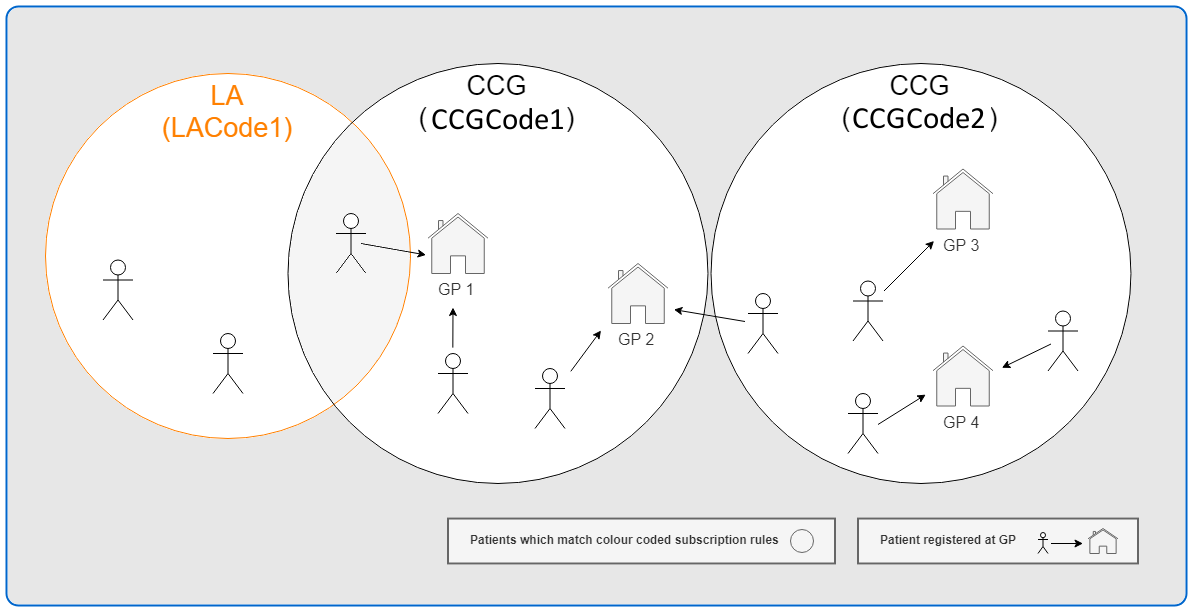
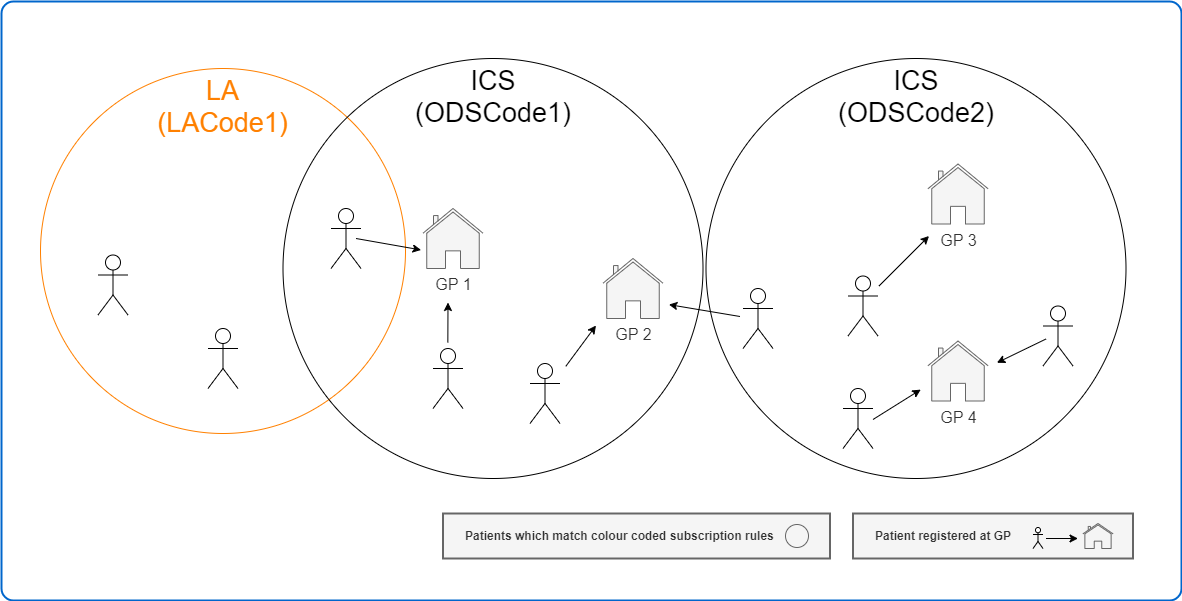
Applied further updates, and reverted changes to subscription rule type names.

diff --git a/pages/subscriptions/explore_create_subscription.md b/pages/subscriptions/explore_create_subscription.md
@@ -66,16 +66,16 @@ The criteria element of the Subscription will use the FHIR search string format 
 {% include warning.html content="Generic subscriptions are stored against a key made up of the `\"Event type\"`, `\"subscriptionRuleType\"`, `\"Organisation Identifier\"`, `\"Mailbox ID\"` and `\"Service Provider ID\"`. As a result if you create a generic subscription with the same set of components as an existing subscription, the original one will be overwritten by the new subscription." %}
 
 
-| Component | Explicit Subscription Cardinality | Generic Subscription Cardinality | Description                                                                                                                                                                                                                                                                                                                                                                                                                                                                                                                                                                                                                                                                                                                                                                                                                                                                                                                                                                                                                                                                                                                                                                                                                                                                                                                                                                                                                                               |
-| ------------------------------- | --- | --- |-----------------------------------------------------------------------------------------------------------------------------------------------------------------------------------------------------------------------------------------------------------------------------------------------------------------------------------------------------------------------------------------------------------------------------------------------------------------------------------------------------------------------------------------------------------------------------------------------------------------------------------------------------------------------------------------------------------------------------------------------------------------------------------------------------------------------------------------------------------------------------------------------------------------------------------------------------------------------------------------------------------------------------------------------------------------------------------------------------------------------------------------------------------------------------------------------------------------------------------------------------------------------------------------------------------------------------------------------------------------------------------------------------------------------------------------------------------|
-| /Bundle?type=message            | 1..1 | 1..1 | This identifies that we are interested in events (which are sent as Bundles in FHIR), of type "message"                                                                                                                                                                                                                                                                                                                                                                                                                                                                                                                                                                                                                                                                                                                                                                                                                                                                                                                                                                                                                                                                                                                                                                                                                                                                                                                                                   |
-| serviceType=[CODE]     | 0..1 | 0..1 | This element identifies the service type making the subscription. Current accepted values are:<br/><br/>**GP** - GP Practice related services<br/>**CHO** - Child Health Organisation related services<br/>**UHV** - Health Visitor related services<br/>**EPCHR** - Electronic Personal Child Health Record services                                                                                                                                                                                                                                                                                                                                                                                                                                                                                                                                                                                                                                                                                                                                                                                                                                                                                                                                                                                                                                                                                                                                     |
-| Patient.identifier=[IDENTIFIER] | 1..1 | 0..0 | This is used for Explicit Subscriptions for an individual patient. The [IDENTIFIER] is the NHS Number for the patient. <br/><br/>For example: "```&amp;Patient.identifier=http://fhir.nhs.net/Id/nhs-number                                                                                                                                                                                                                                                                                                                                                                                                                                                                                                                                                                                                                                                                                                                                                                                                                                                                                                                                                                                                                                                                                                                                                                                                                                               |[NHS Number]```" |
-| MessageHeader.event=[CODE]      | 1..* | 1..1 | This is the type of event to subscribe to (see the [Event Types](https://fhir.nhs.uk/STU3/CodeSystem/EventType-1)). <br/><br/>For example: <br/> "```&amp;MessageHeader.event=pds-birth-notification-1&amp;MessageHeader.event=vaccinations-1&amp;MessageHeader.event=pds-change-of-address-1```" <br/><br/> is an expression to specify events where the MessageHeader.event is of type "pds-birth-notification-1", "vaccinations-1" or "pds-change-of-address-1"                                                                                                                                                                                                                                                                                                                                                                                                                                                                                                                                                                                                                                                                                                                                                                                                                                                                                                                                                                                        |
-| Patient.age=[AGE]               | 0..2 |  0..2 | This is a filter to only match events where the age of the patient (in years) meets the criteria supplied. <br/><br/>Examples:<br/> - "```&amp;Patient.age=lt14```"<br/> - "```&amp;Patient.age=gt60```"<br/> - "```&amp;Patient.age=gt5&amp;Patient.age=lt19```" <br/><br/>For more detail see the Search Parameter [EMS Patient Age](https://fhir.nhs.uk/STU3/SearchParameter/EMS-PatientAge-1)                                                                                                                                                                                                                                                                                                                                                                                                                                                                                                                                                                                                                                                                                                                                                                                                                                                                                                                                                                                                                                                         |
-| subscriptionRuleType=[CODE] | 0..0 | 1..1 | This identifies the type of matching the NEMS will do between the patient demographics and the organisation code specified in the "Organization.identifier" criteria component. Current accepted values are:<br/><br/>**GP_GP_GP** - This will be a match if the patients registered GP matches the GP Practice code within the "Organization.identifier" criteria component.<br/><br/>**UHV_POSTCODE_LACODE** - This will be a match if the Local Authority Code responsible for the geographical location of the patients post code matches the code within the "Organization.identifier" criteria component.<br/><br/>**CHO_GP_ICS** - This will be a match if the ICS Code responsible for the geographical location of the patients registered GP matches the code within the "Organization.identifier" criteria component.<br/><br/>**CHO_POSTCODE_ICS** - This will be a match if the ICS Code responsible for the geographical location of the patients postcode matches the code within the "Organization.identifier" criteria component.<br/><br/>**COUNTRYCODE** - National subscription, subscription criteria is a match for any patients in the country specified in the `Organizaiton.identifier` criteria element.<br/>Supported values:<br/>- `E92000001 = England`<br/>- `W92000004 = Wales`<br/>- `S92000003 = Scotland`<br/>- `N92000002 = Northern Ireland`<br/>- `L93000001 = Channel Islands`<br/>- `M83000003 = Isle of Man`<br/> |
-| Organization.identifier=[CODE]  | 0..0 | 0..1 | This element is required as part of the generic subscription to specify the organisation code which the NEMS will match to, based on the rule specified within the subscriptionRuleType criteria component.                                                                                                                                                                                                                                                                                                                                                                                                                                                                                                                                                                                                                                                                                                                                                                                                                                                                                                                                                                                                                                                                                                                                                                                                                                               |
-| tag=[tag_value]  | 0..1 | 0..1 | The optional `tag` criteria element allows the subscriber to include a tag for the subscription that will be sent with the event message, when delivered through MESH, as outlined on the [Event Receiver](receiver_requirements.html) page.<br/><br/>The `tag` element value must only include<br/> - letters (`[a-z][A-Z]`)<br/> - numbers (`[0-9]`)<br/> - hyphens (`-`)<br/> - underscores (`_`)<br/> - pipes (`                                                                                                                                                                                                                                                                                                                                                                                                                                                                                                                                                                                                                                                                                                                                                                                                                                                                                                                                                                                                                                      |`)<br/> - commas (`,`)<br/><br/>The `tag` value must contain a maximum of 100 characters. |
+| Component | Explicit Subscription Cardinality | Generic Subscription Cardinality | Description                                                                                                                                                                                                                                                                                                                                                                                                                                                                                                                                                                                                                                                                                                                                                                                                                                                                                                                                                                                                                                                                                                                                                                                                                                                                                                                                                                                                                                                                                                                                                                                                                                            |
+| ------------------------------- | --- | --- |--------------------------------------------------------------------------------------------------------------------------------------------------------------------------------------------------------------------------------------------------------------------------------------------------------------------------------------------------------------------------------------------------------------------------------------------------------------------------------------------------------------------------------------------------------------------------------------------------------------------------------------------------------------------------------------------------------------------------------------------------------------------------------------------------------------------------------------------------------------------------------------------------------------------------------------------------------------------------------------------------------------------------------------------------------------------------------------------------------------------------------------------------------------------------------------------------------------------------------------------------------------------------------------------------------------------------------------------------------------------------------------------------------------------------------------------------------------------------------------------------------------------------------------------------------------------------------------------------------------------------------------------------------|
+| /Bundle?type=message            | 1..1 | 1..1 | This identifies that we are interested in events (which are sent as Bundles in FHIR), of type "message"                                                                                                                                                                                                                                                                                                                                                                                                                                                                                                                                                                                                                                                                                                                                                                                                                                                                                                                                                                                                                                                                                                                                                                                                                                                                                                                                                                                                                                                                                                                                                |
+| serviceType=[CODE]     | 0..1 | 0..1 | This element identifies the service type making the subscription. Current accepted values are:<br/><br/>**GP** - GP Practice related services<br/>**CHO** - Child Health Organisation related services<br/>**UHV** - Health Visitor related services<br/>**EPCHR** - Electronic Personal Child Health Record services                                                                                                                                                                                                                                                                                                                                                                                                                                                                                                                                                                                                                                                                                                                                                                                                                                                                                                                                                                                                                                                                                                                                                                                                                                                                                                                                  |
+| Patient.identifier=[IDENTIFIER] | 1..1 | 0..0 | This is used for Explicit Subscriptions for an individual patient. The [IDENTIFIER] is the NHS Number for the patient. <br/><br/>For example: "```&amp;Patient.identifier=http://fhir.nhs.net/Id/nhs-number                                                                                                                                                                                                                                                                                                                                                                                                                                                                                                                                                                                                                                                                                                                                                                                                                                                                                                                                                                                                                                                                                                                                                                                                                                                                                                                                                                                                                                            |[NHS Number]```" |
+| MessageHeader.event=[CODE]      | 1..* | 1..1 | This is the type of event to subscribe to (see the [Event Types](https://fhir.nhs.uk/STU3/CodeSystem/EventType-1)). <br/><br/>For example: <br/> "```&amp;MessageHeader.event=pds-birth-notification-1&amp;MessageHeader.event=vaccinations-1&amp;MessageHeader.event=pds-change-of-address-1```" <br/><br/> is an expression to specify events where the MessageHeader.event is of type "pds-birth-notification-1", "vaccinations-1" or "pds-change-of-address-1"                                                                                                                                                                                                                                                                                                                                                                                                                                                                                                                                                                                                                                                                                                                                                                                                                                                                                                                                                                                                                                                                                                                                                                                     |
+| Patient.age=[AGE]               | 0..2 |  0..2 | This is a filter to only match events where the age of the patient (in years) meets the criteria supplied. <br/><br/>Examples:<br/> - "```&amp;Patient.age=lt14```"<br/> - "```&amp;Patient.age=gt60```"<br/> - "```&amp;Patient.age=gt5&amp;Patient.age=lt19```" <br/><br/>For more detail see the Search Parameter [EMS Patient Age](https://fhir.nhs.uk/STU3/SearchParameter/EMS-PatientAge-1)                                                                                                                                                                                                                                                                                                                                                                                                                                                                                                                                                                                                                                                                                                                                                                                                                                                                                                                                                                                                                                                                                                                                                                                                                                                      |
+| subscriptionRuleType=[CODE] | 0..0 | 1..1 | This identifies the type of matching the NEMS will do between the patient demographics and the organisation code specified in the "Organization.identifier" criteria component. Important to note that although CCG is replaced by ICS, rule type name will remain the same. Suppliers should make necessary "label" changes if displaying the rule type names to end users. Current accepted values are:<br/><br/>**GP_GP_GP** - This will be a match if the patients registered GP matches the GP Practice code within the "Organization.identifier" criteria component.<br/><br/>**UHV_POSTCODE_LACODE** - This will be a match if the Local Authority Code responsible for the geographical location of the patients post code matches the code within the "Organization.identifier" criteria component.<br/><br/>**CHO_GP_CCG** - This will be a match if the ICS Code responsible for the geographical location of the patients registered GP matches the code within the "Organization.identifier" criteria component.<br/><br/>**CHO_POSTCODE_CCG** - This will be a match if the ICS Code responsible for the geographical location of the patients postcode matches the code within the "Organization.identifier" criteria component.<br/><br/>**COUNTRYCODE** - National subscription, subscription criteria is a match for any patients in the country specified in the `Organizaiton.identifier` criteria element.<br/>Supported values:<br/>- `E92000001 = England`<br/>- `W92000004 = Wales`<br/>- `S92000003 = Scotland`<br/>- `N92000002 = Northern Ireland`<br/>- `L93000001 = Channel Islands`<br/>- `M83000003 = Isle of Man`<br/> |
+| Organization.identifier=[CODE]  | 0..0 | 0..1 | This element is required as part of the generic subscription to specify the organisation code which the NEMS will match to, based on the rule specified within the subscriptionRuleType criteria component.                                                                                                                                                                                                                                                                                                                                                                                                                                                                                                                                                                                                                                                                                                                                                                                                                                                                                                                                                                                                                                                                                                                                                                                                                                                                                                                                                                                                                                            |
+| tag=[tag_value]  | 0..1 | 0..1 | The optional `tag` criteria element allows the subscriber to include a tag for the subscription that will be sent with the event message, when delivered through MESH, as outlined on the [Event Receiver](receiver_requirements.html) page.<br/><br/>The `tag` element value must only include<br/> - letters (`[a-z][A-Z]`)<br/> - numbers (`[0-9]`)<br/> - hyphens (`-`)<br/> - underscores (`_`)<br/> - pipes (`                                                                                                                                                                                                                                                                                                                                                                                                                                                                                                                                                                                                                                                                                                                                                                                                                                                                                                                                                                                                                                                                                                                                                                                                                                   |`)<br/> - commas (`,`)<br/><br/>The `tag` value must contain a maximum of 100 characters. |
 
 
 ## Criteria Examples ##
@@ -83,7 +83,7 @@ The criteria element of the Subscription will use the FHIR search string format 
 | Scenario                                                                                                                                            | Subscription Type | Criteria String                                                                                                                                                                              |
 |-----------------------------------------------------------------------------------------------------------------------------------------------------|-------------------|----------------------------------------------------------------------------------------------------------------------------------------------------------------------------------------------|
 | A PHR system subscribing to change of address event for a specific patient registered for a PHR                                                     | Explicit | ```/Bundle?type=message&amp;serviceType=GP&amp;```<br/>```Patient.identifier=http://fhir.nhs.net/Id/nhs-number                                                                               |9434765919```<br/>```&amp;MessageHeader.event=pds-change-of-address-1``` |
-| A child health service subscribing to change of address event for patients who's postcode is within the catchment area of a ICS with the ID "X2458" | Generic | ```/Bundle?type=message&amp;subscriptionRuleType=```<br/>```CHO_POSTCODE_ICS&amp;Organization.identifier=```<br/>```X2458&amp;MessageHeader.event=pds-change-of-address-1&amp;tag=site123``` |
+| A child health service subscribing to change of address event for patients who's postcode is within the catchment area of a ICS with the ID "X2458" | Generic | ```/Bundle?type=message&amp;subscriptionRuleType=```<br/>```CHO_POSTCODE_CCG&amp;Organization.identifier=```<br/>```X2458&amp;MessageHeader.event=pds-change-of-address-1&amp;tag=site123``` |
 
 ## Error Handling ##
 
@@ -184,7 +184,7 @@ POST https://clinicals.spineservices.nhs.uk/STU3/Subscription HTTP/1.1
 		<use value="work"/>
 	</contact>
 	<reason value="Health visiting service responsible for Leeds"/>
-	<criteria value="/Bundle?type=message&amp;subscriptionRuleType=CHO_POSTCODE_ICS&amp;Organization.identifier=X2458&amp;MessageHeader.event=pds-change-of-address-1" />
+	<criteria value="/Bundle?type=message&amp;subscriptionRuleType=CHO_POSTCODE_CCG&amp;Organization.identifier=X2458&amp;MessageHeader.event=pds-change-of-address-1" />
 	<channel>
 		<type value="message"/>
 		<endpoint value="Mailbox1234"/>
